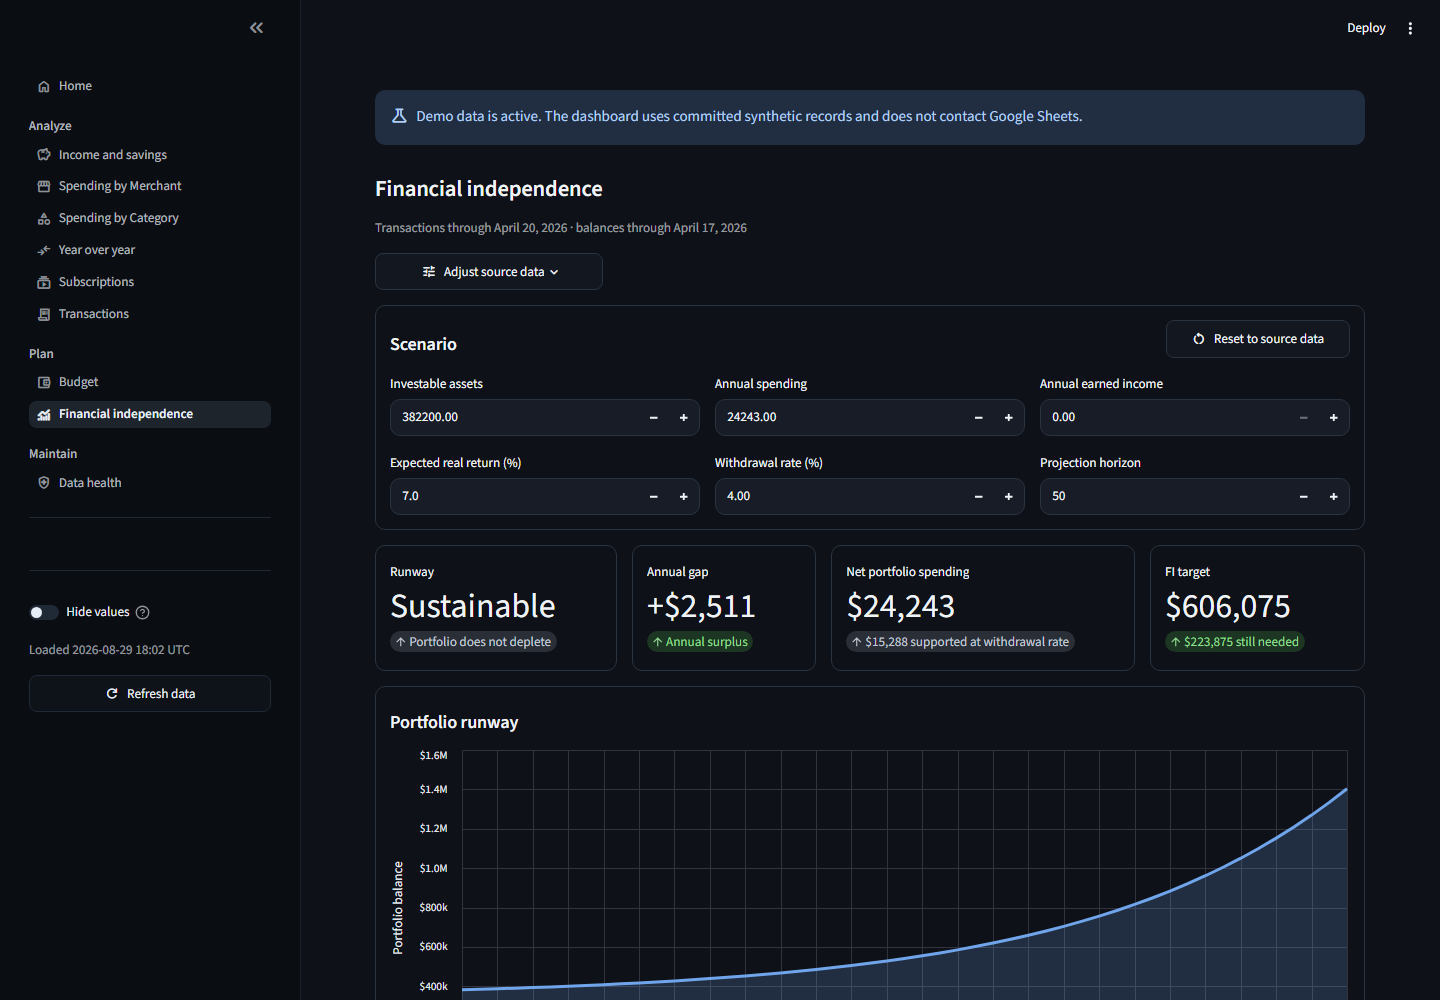
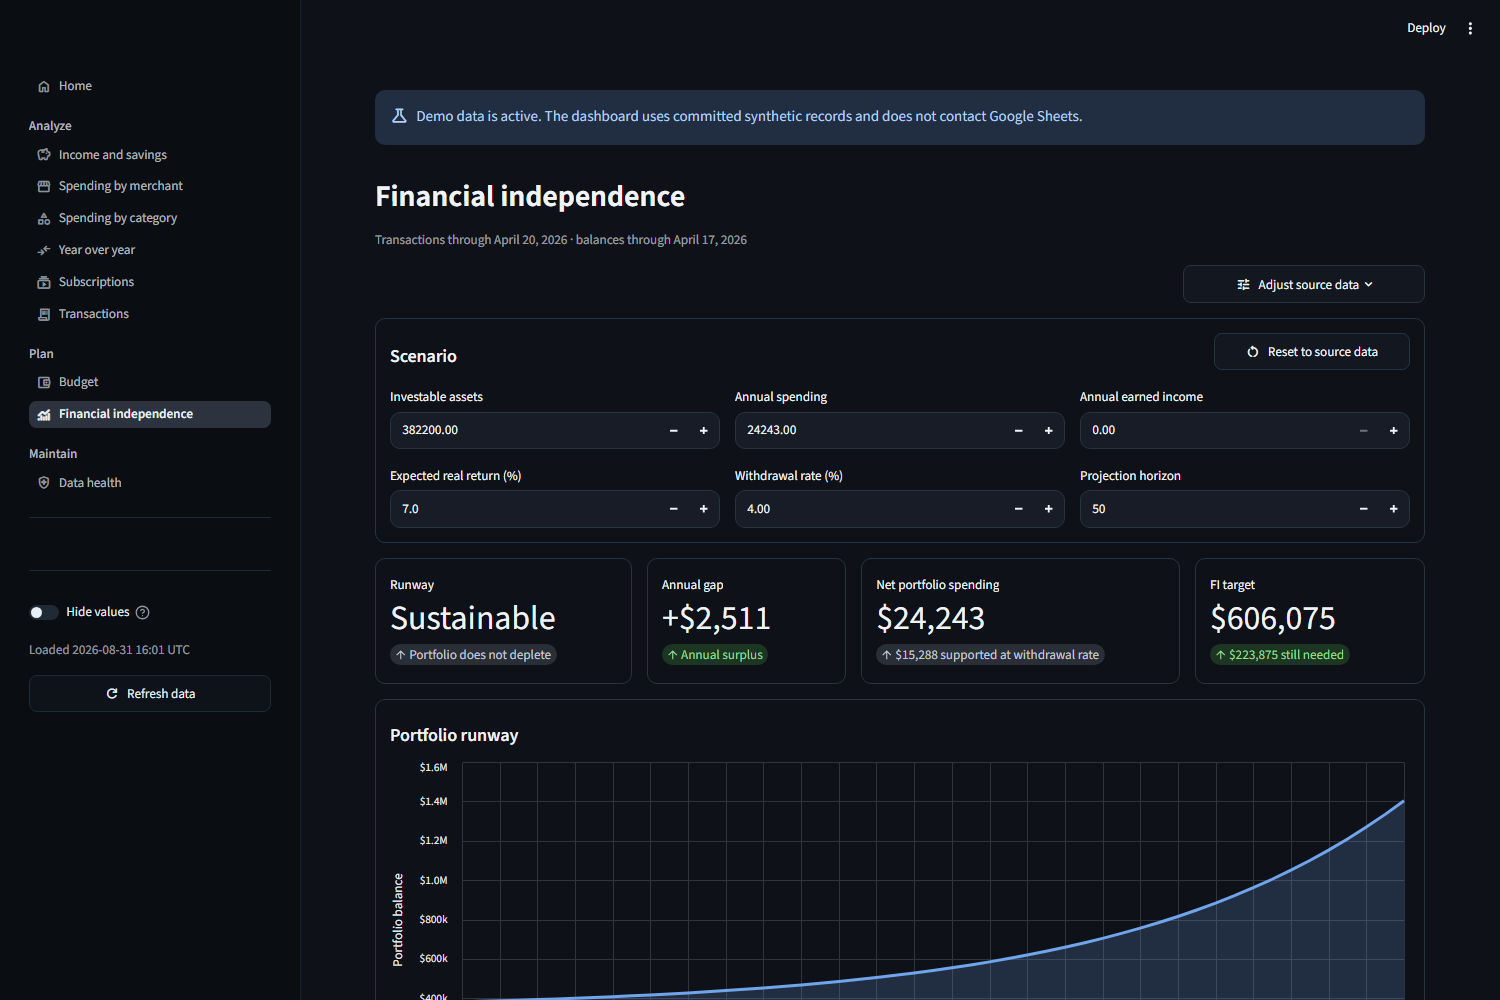
fix: unify page headers and controls

diff --git a/tests/integration/test_apptest_smoke.py b/tests/integration/test_apptest_smoke.py
@@ -918,7 +918,9 @@ class TestSpendingByCategorySmoke:
             ],
         )
         assert not at.exception
-        assert at.header[0].value == "Spending by Category"
+        assert at.title[0].value == "Spending by category"
+        toolbar_weights = [column.weight for column in at.columns[:4]]
+        assert toolbar_weights == pytest.approx([value / 7.05 for value in (1.6, 1.6, 1.6, 2.25)])
         assert [(control.label, control.value, control.options) for control in at.segmented_control] == [
             ("Time frame", "1Y", ["3M", "6M", "1Y", "2Y"]),
             ("View", "Discretionary", ["All spending", "Discretionary"]),
@@ -1116,7 +1118,7 @@ class TestYearOverYearSmoke:
             ],
         )
         assert not at.exception
-        assert at.header[0].value == "Year over year"
+        assert at.title[0].value == "Year over year"
         view = at.segmented_control(key="year_over_year_view")
         assert view.value == "Utility bills"
         assert view.options == [
@@ -1399,7 +1401,10 @@ class TestMerchantAnalysisSmoke:
             ],
         )
         assert not at.exception
-        assert at.header[0].value == "Spending by Merchant"
+        assert at.title[0].value == "Spending by merchant"
+        toolbar_weights = [column.weight for column in at.columns[:4]]
+        assert toolbar_weights == pytest.approx([value / 7.05 for value in (1.6, 1.6, 1.6, 2.25)])
+        assert all(control.proto.required for control in at.segmented_control)
         assert _metric_values(at) == [
             ("Total spending", "$31,883", ""),
             ("Average monthly", "$2,657", ""),
@@ -1605,7 +1610,7 @@ class TestBudgetSmoke:
             ("YTD remaining", "$7,996", ""),
             ("YTD used", "64.8%", ""),
         ]
-        assert at.header[0].value == "Budget"
+        assert at.title[0].value == "Budget"
         assert at.selectbox(key="budget_month").value == "2026-04"
         assert len(at.get("popover")) == 1
         assert at.multiselect(key="budget_exclude_groups").value == []
@@ -1726,7 +1731,7 @@ class TestTopTransactionsSmoke:
             ],
         )
         assert not at.exception
-        assert at.header[0].value == "Transactions"
+        assert at.title[0].value == "Transactions"
         assert [(control.label, control.value, control.options) for control in at.segmented_control] == [
             ("Time frame", "1Y", ["3M", "6M", "1Y", "2Y", "All"]),
             ("Type", "All", ["All", "Expenses", "Income", "Transfers"]),
@@ -1927,7 +1932,7 @@ class TestFinancialIndependenceSmoke:
             ),
             ("FI target", "$833,075", "$450,875 still needed"),
         ]
-        assert at.header[0].value == "Financial independence"
+        assert at.title[0].value == "Financial independence"
         assert len(at.get("popover")) == 1
         assert at.multiselect(key="fi_include_accounts").value
         assert at.selectbox(key="fi_spending_lookback").value == 12
@@ -2034,6 +2039,7 @@ class TestDataHealthSmoke:
             ],
         )
         assert not at.exception
+        assert at.title[0].value == "Data health"
         assert _metric_values(at) == [
             ("Needs attention", "0", ""),
             ("Review items", "3", ""),

diff --git a/pages/2_Spending_by_Category.py b/pages/2_Spending_by_Category.py
@@ -668,7 +668,7 @@ def _render_entity_detail(
 
 def configure_page(transactions_spreadsheet: TransactionsSpreadsheet) -> None:
     """Render the spending overview and selected-entity drill-down."""
-    st.header("Spending by Category")
+    st.title("Spending by category")
     transactions = transactions_spreadsheet.scrubbed_df.copy()
     expenses = transactions[transactions["Type"] == "Expense"]
     if expenses.empty:
@@ -682,7 +682,11 @@ def configure_page(transactions_spreadsheet: TransactionsSpreadsheet) -> None:
 
     expense_categories = sorted(expenses["Category"].dropna().astype(str).unique())
     expense_groups = sorted(expenses["Group"].dropna().astype(str).unique())
-    controls = st.columns([1.0, 1.4, 1.35, 2.25], vertical_alignment="bottom")
+    controls = st.columns(
+        [1.6, 1.6, 1.6, 2.25],
+        vertical_alignment="bottom",
+        wrap=False,
+    )
     with controls[0]:
         lookback = st.segmented_control(
             "Time frame",
@@ -691,6 +695,7 @@ def configure_page(transactions_spreadsheet: TransactionsSpreadsheet) -> None:
             required=True,
             key="spending_lookback",
             persist_state="page",
+            width="stretch",
         )
     with controls[1]:
         view = st.segmented_control(
@@ -700,6 +705,7 @@ def configure_page(transactions_spreadsheet: TransactionsSpreadsheet) -> None:
             required=True,
             key="spending_view",
             persist_state="page",
+            width="stretch",
         )
     with controls[2]:
         comparison = st.segmented_control(
@@ -709,6 +715,7 @@ def configure_page(transactions_spreadsheet: TransactionsSpreadsheet) -> None:
             required=True,
             key="spending_comparison",
             persist_state="page",
+            width="stretch",
         )
     with controls[3]:
         filters = render_spending_filters(

diff --git a/pages/6_Merchant_Analysis.py b/pages/6_Merchant_Analysis.py
@@ -415,7 +415,7 @@ def _render_merchant_detail(
 
 def configure_page(transactions_spreadsheet: TransactionsSpreadsheet) -> None:
     """Render merchant ranking and selected-merchant drill-down."""
-    st.header("Spending by Merchant")
+    st.title("Spending by merchant")
     try:
         merchant_aliases = configured_merchant_aliases()
     except ValueError as error:
@@ -434,30 +434,40 @@ def configure_page(transactions_spreadsheet: TransactionsSpreadsheet) -> None:
 
     expense_categories = sorted(expenses["Category"].dropna().astype(str).unique())
     expense_groups = sorted(expenses["Group"].dropna().astype(str).unique())
-    controls = st.columns([1.0, 1.4, 1.35, 2.25], vertical_alignment="bottom")
+    controls = st.columns(
+        [1.6, 1.6, 1.6, 2.25],
+        vertical_alignment="bottom",
+        wrap=False,
+    )
     with controls[0]:
         lookback = st.segmented_control(
             "Time frame",
             list(LOOKBACK_MONTHS),
             default="1Y",
+            required=True,
             key="merchant_lookback",
             persist_state="page",
+            width="stretch",
         )
     with controls[1]:
         view = st.segmented_control(
             "View",
             SPENDING_VIEWS,
             default="Discretionary",
+            required=True,
             key="merchant_view",
             persist_state="page",
+            width="stretch",
         )
     with controls[2]:
         comparison = st.segmented_control(
             "Compare with",
             COMPARISON_VIEWS,
             default="Previous period",
+            required=True,
             key="merchant_comparison",
             persist_state="page",
+            width="stretch",
         )
     with controls[3]:
         filters = render_spending_filters(

diff --git a/pages/9_Financial_Independence.py b/pages/9_Financial_Independence.py
@@ -446,7 +446,7 @@ def configure_page(
     transactions_spreadsheet: TransactionsSpreadsheet,
     balance_history_spreadsheet: BalanceHistorySpreadsheet,
 ) -> None:
-    st.header("Financial independence")
+    st.title("Financial independence")
 
     transactions_df = transactions_spreadsheet.scrubbed_df.copy()
     balances_df = balance_history_spreadsheet.scrubbed_df.copy()
@@ -465,7 +465,7 @@ def configure_page(
         )
 
     all_accounts = get_all_accounts(balances_df)
-    source_controls, _ = st.columns([1.25, 4], vertical_alignment="bottom")
+    _, source_controls = st.columns([4, 1.25], vertical_alignment="bottom")
     with source_controls:
         filters = render_fi_filters(
             all_accounts,

diff --git a/Home.py b/Home.py
@@ -42,12 +42,12 @@ ANALYZE_PAGE_SPECS = (
     ("pages/1_Income_and_Savings.py", "Income and savings", ":material/savings:"),
     (
         "pages/6_Merchant_Analysis.py",
-        "Spending by Merchant",
+        "Spending by merchant",
         ":material/storefront:",
     ),
     (
         "pages/2_Spending_by_Category.py",
-        "Spending by Category",
+        "Spending by category",
         ":material/category:",
     ),
     ("pages/3_Year_over_Year.py", "Year over year", ":material/compare_arrows:"),

diff --git a/pages/8_Top_Transactions.py b/pages/8_Top_Transactions.py
@@ -187,7 +187,7 @@ def _render_transaction_table(transactions: pd.DataFrame) -> None:
 
 def configure_page(transactions_spreadsheet: TransactionsSpreadsheet) -> None:
     """Render the transaction filtering and inspection workbench."""
-    st.header("Transactions")
+    st.title("Transactions")
     transactions = transactions_spreadsheet.scrubbed_df.copy()
     if transactions.empty:
         st.info("No transactions are available.", icon=":material/receipt_long:")

diff --git a/tests/unit/pages/test_navigation.py b/tests/unit/pages/test_navigation.py
@@ -7,8 +7,8 @@ def test_analyze_pages_keep_spending_views_together() -> None:
     """Keep exact sidebar labels and the requested spending-page order."""
     assert [title for _, title, _ in ANALYZE_PAGE_SPECS] == [
         "Income and savings",
-        "Spending by Merchant",
-        "Spending by Category",
+        "Spending by merchant",
+        "Spending by category",
         "Year over year",
         "Subscriptions",
         "Transactions",

diff --git a/pages/3_Year_over_Year.py b/pages/3_Year_over_Year.py
@@ -295,7 +295,7 @@ def _preset_selection(
 
 def configure_page(transactions_spreadsheet: TransactionsSpreadsheet) -> None:
     """Render curated or single-entity year-over-year comparisons."""
-    st.header("Year over year")
+    st.title("Year over year")
     transactions = transactions_spreadsheet.scrubbed_df.copy()
     expenses = transactions[transactions["Type"].eq("Expense")]
     if expenses.empty:

diff --git a/pages/10_Data_Health.py b/pages/10_Data_Health.py
@@ -411,7 +411,7 @@ def configure_page(
     balance_history_spreadsheet: BalanceHistorySpreadsheet,
 ) -> None:
     """Render prioritized data-quality findings for imported Tiller sheets."""
-    st.header("Data health")
+    st.title("Data health")
     transactions = transactions_spreadsheet.scrubbed_df.copy()
     balances = balance_history_spreadsheet.scrubbed_df.copy()
 

diff --git a/pages/7_Budget.py b/pages/7_Budget.py
@@ -499,7 +499,7 @@ def main() -> None:
     """Render the monthly budget pulse and drill-down."""
     st.set_page_config(layout="wide")
     render_data_refresh_controls()
-    st.header("Budget")
+    st.title("Budget")
 
     transactions_spreadsheet = load_transactions_data()
     categories_spreadsheet = load_categories_data()
